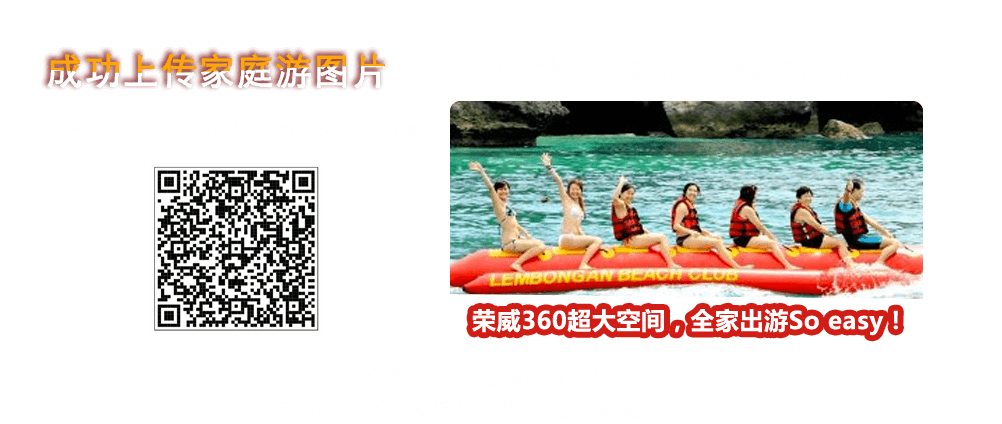
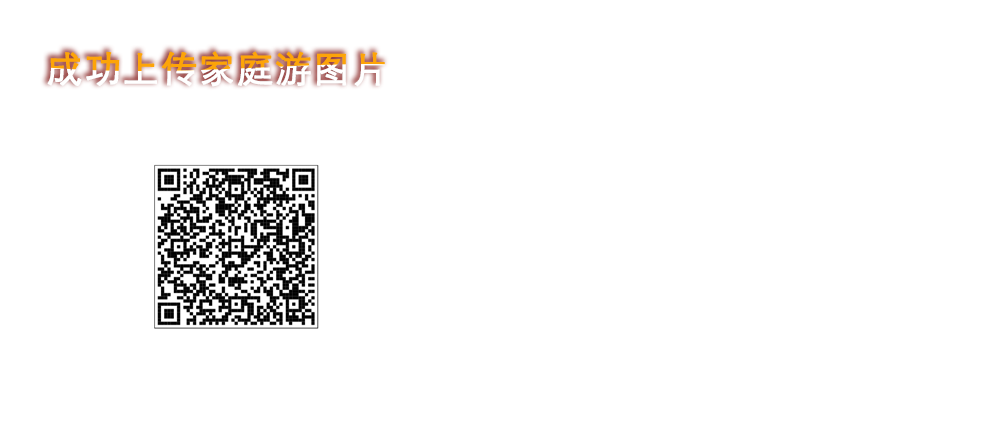
用户图片预留位置 及所选帮派

Changed region(s): [[0.4331, 0.2146, 0.9281, 0.7972], [0.1547, 0.3679, 0.3403, 0.7972], [0.0309, 0.092, 0.4022, 0.2146]]

diff --git a/app/assets/stylesheets/global.css.scss b/app/assets/stylesheets/global.css.scss
@@ -207,7 +207,7 @@ button.properties{
                     line-height: 30px;
                     width: 220px;
                     height: 30px;
-                    padding: 0 24px 0 38px;
+                    padding: 0 24px 0 57px;
                     box-sizing:border-box;
                     background: url(image_path('dianzanborder.png')) no-repeat;
                     cursor: pointer;
@@ -679,6 +679,24 @@ button.properties{
     .content{
       position: absolute;
       top: 32px;
+      .xuanyanimage{
+        position: absolute;
+        bottom: 80px;
+        right: 79px;
+        display: none;
+      }
+      .usersshareimg{
+        position: absolute;
+        bottom: 124px;
+        right: 79px;
+        width: 472px;
+        height: 196px;
+        background: url(image_path('zhanwei.png')) no-repeat;
+        background-size: contain;
+        filter:progid:DXImageTransform.Microsoft.AlphaImageLoader(src='image_path('zhanwei.png')',sizingMethod='scale');
+        border-top-left-radius: 8px solid white;
+        border-top-right-radius: 8px solid white;
+      }
     }
   }
   .zansuccess{
